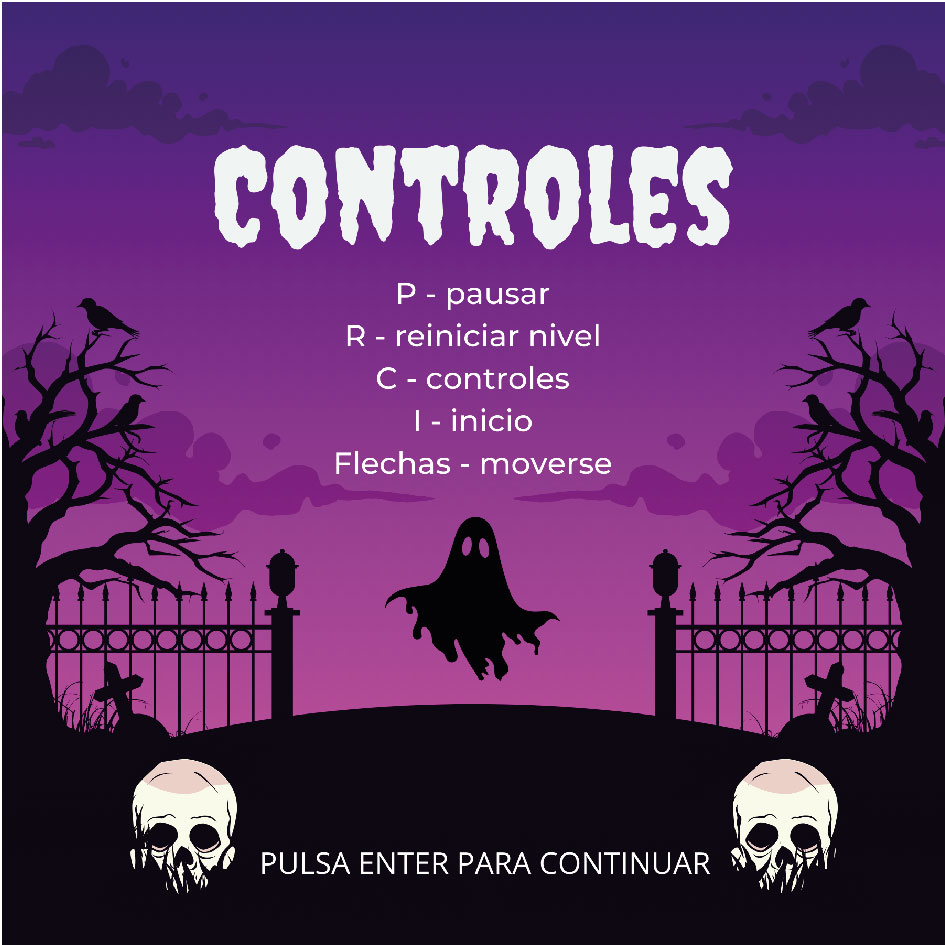
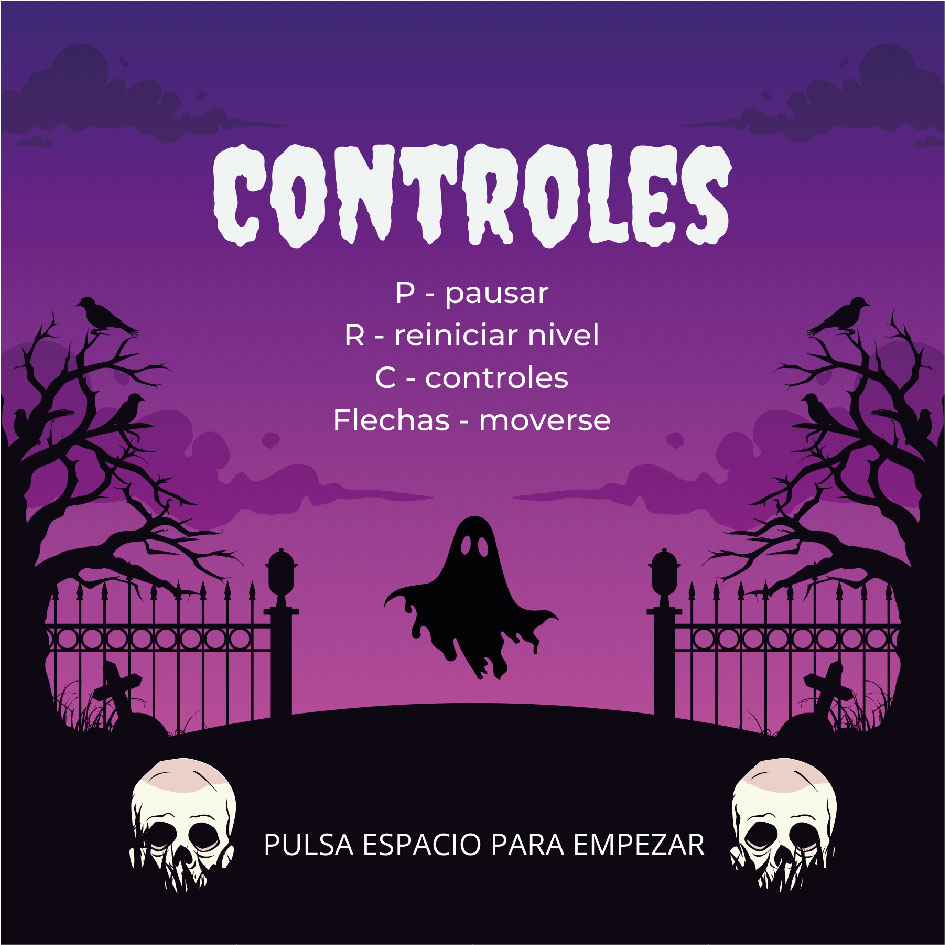
final

diff --git a/README.md b/README.md
@@ -1,4 +1,4 @@
-# Nombre del juego (<- borrar y completar)
+# Escape del cementerio
 
 ## Equipo de desarrollo
 
@@ -9,18 +9,28 @@
 
 ## Capturas
 
-(agregar)
+![nivel1](nivel1.jpg "Primer nivel")
+
+![ganaste](ganaste.jpg "Visual ganaste")
+
+![controles](controles.jpg "Visual controles")
 
 ## Reglas de Juego / Instrucciones
 
 Escapa del cementerio recolectando puntos y llaves para abrir la puerta final antes de que se termine el tiempo.
+
 En el nivel 2 hay fantasmas que se deben evitar.
+
 Se juega con las flechas del teclado, además las siguientes teclas permiten otras acciones:
-P - pausar
-R - reiniciar el nivel
-C - ver los controles
-I - ir a la pantalla de inicio
-Enter - continuar con el juego
+- P - pausar
+- R - reiniciar el nivel
+- C - ver los controles
+- Enter - continuar con el juego
+- Espacio - comenzar juego
+
+Los puntos verdes suman puntos al personaje, los amarillos restan.
+
+Los relojes azules suman tiempo, los rojos restan.
 
 
 ## Otros
